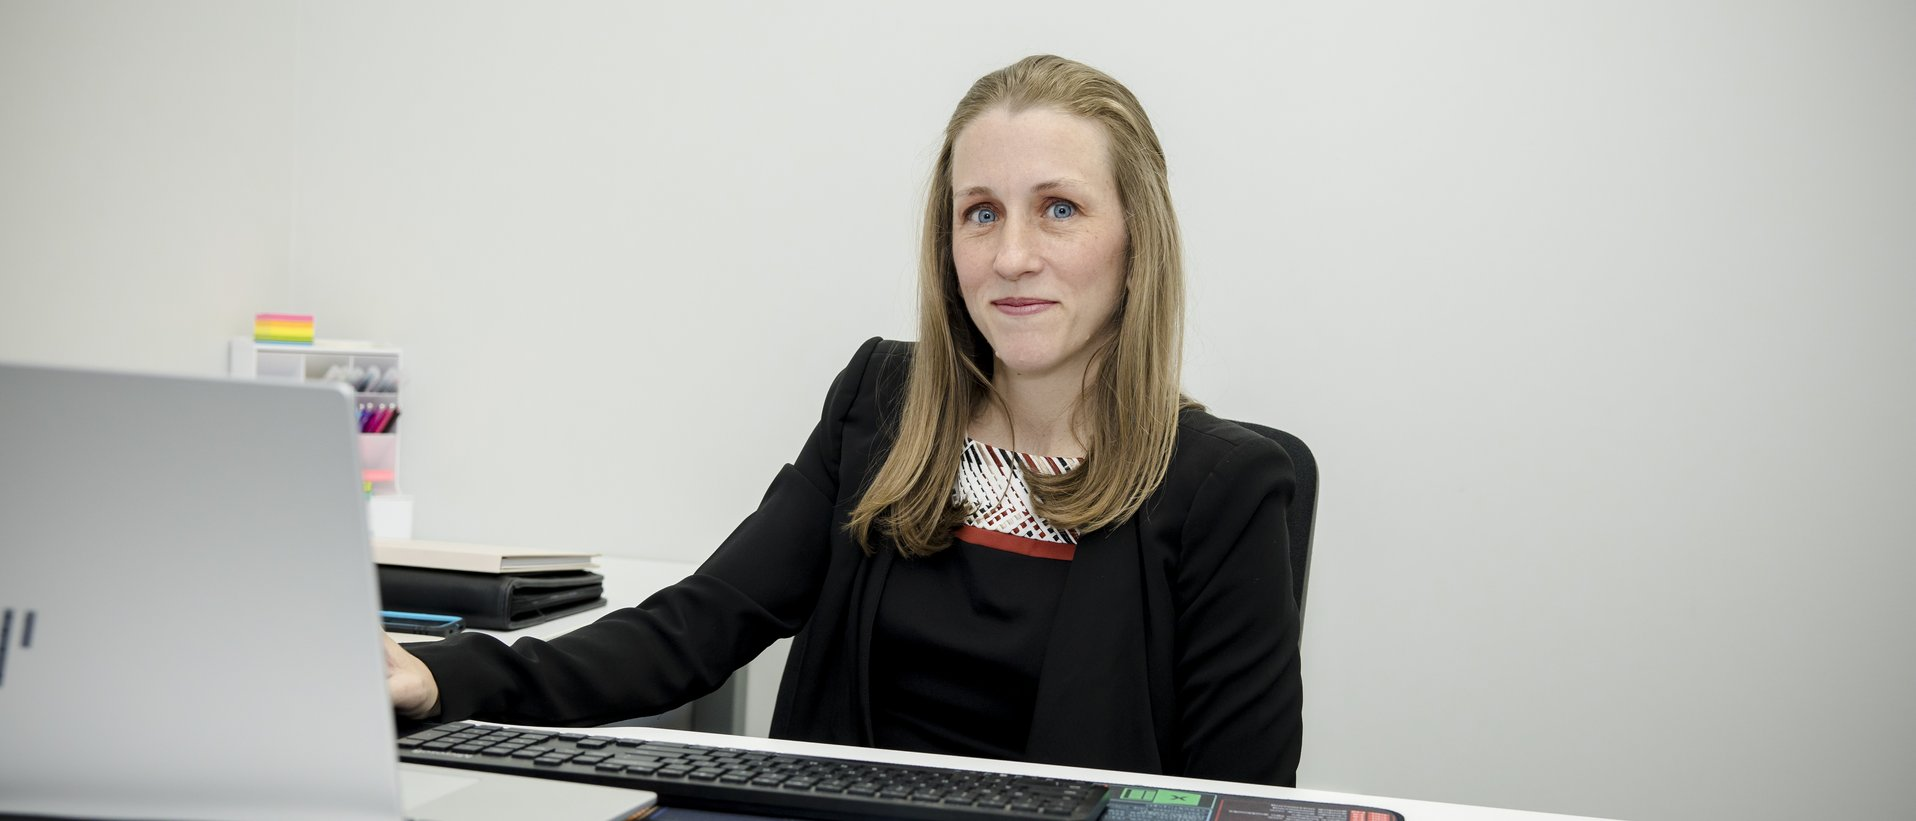
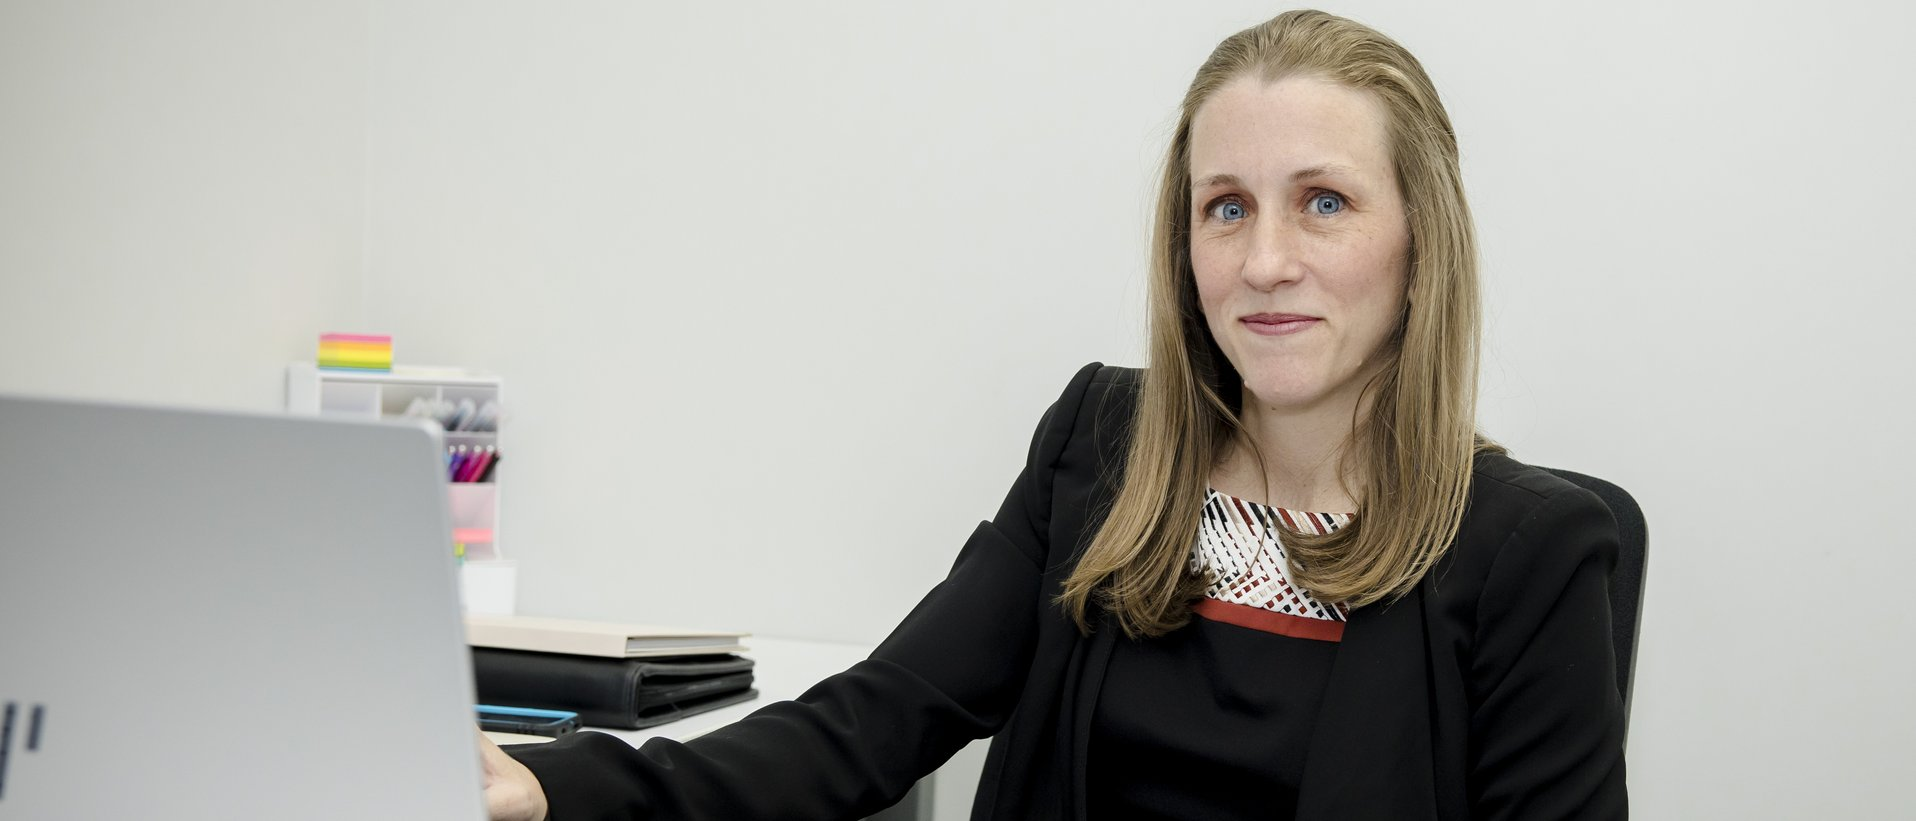
About: shift Brittany right in hero, add full-width Our Story band with couple photo left

diff --git a/about.html b/about.html
@@ -159,9 +159,11 @@
     </section>
 
     <!-- About Grid: Bio + Photo -->
-    <section class="section" aria-label="Brittany's story">
-      <div class="container about-grid">
-        <div>
+    <section class="split-band" aria-label="Brittany's story">
+      <div class="split-band-media">
+        <img src="assets/img/team/brittany-mark.jpg" alt="Brittany and Mark Ferguson, the husband-and-wife team behind PB&amp;J Strategic Accounting" loading="lazy" width="1200" height="1320">
+      </div>
+      <div class="split-band-content">
           <span class="eyebrow">Our Story</span>
           <p style="color:var(--text-muted); margin-top:1rem;">After 13 years working in the accounting world, I decided to venture out and take the knowledge I had gained over the years to truly help people and companies understand their sticky situations.</p>
           <p style="color:var(--text-muted);">I love taking those messy sandwiches and turning them into an enjoyable feast everyone has come to love. The name PB&amp;J comes from my three wonderful children - and yes I am as OCD as the name implies.</p>
@@ -176,14 +178,6 @@
             <a class="btn" href="/contact">Book a Free Consultation</a>
             <a class="btn-secondary" href="/services">View Services</a>
           </div>
-        </div>
-
-        <div class="portrait-editorial">
-          <img src="assets/img/team/brittany-mark.jpg"
-               alt="Brittany and Mark Ferguson, the husband-and-wife team behind PB&amp;J Strategic Accounting"
-               class="about-portrait" width="780" height="1163"
-               loading="lazy">
-        </div>
       </div>
     </section>
 

diff --git a/assets/css/styles.css b/assets/css/styles.css
@@ -91,3 +91,9 @@ body.has-hero-overlay .site-header:not(.is-scrolled) .nav-cta{color:#fff;border-
 body.has-hero-overlay .site-header:not(.is-scrolled) .nav-cta:hover{background:rgba(255,255,255,.15)}
 body.has-hero-overlay .site-header .site-logo{transition:filter .3s ease}
 body.has-hero-overlay .site-header:not(.is-scrolled) .site-logo{filter:brightness(0) invert(1)}
+/* === Split band (full-width image beside text) === */
+.split-band{display:grid;grid-template-columns:1fr 1fr;width:100%;background:var(--surface)}
+.split-band-media{position:relative;min-height:480px}
+.split-band-media img{position:absolute;inset:0;width:100%;height:100%;object-fit:cover;object-position:center top;display:block}
+.split-band-content{padding:clamp(2.5rem,5vw,5rem) clamp(1.5rem,5vw,5rem);display:flex;flex-direction:column;justify-content:center;max-width:720px}
+@media (max-width:860px){.split-band{grid-template-columns:1fr}.split-band-media{min-height:0;aspect-ratio:10/11}.split-band-content{max-width:none}}